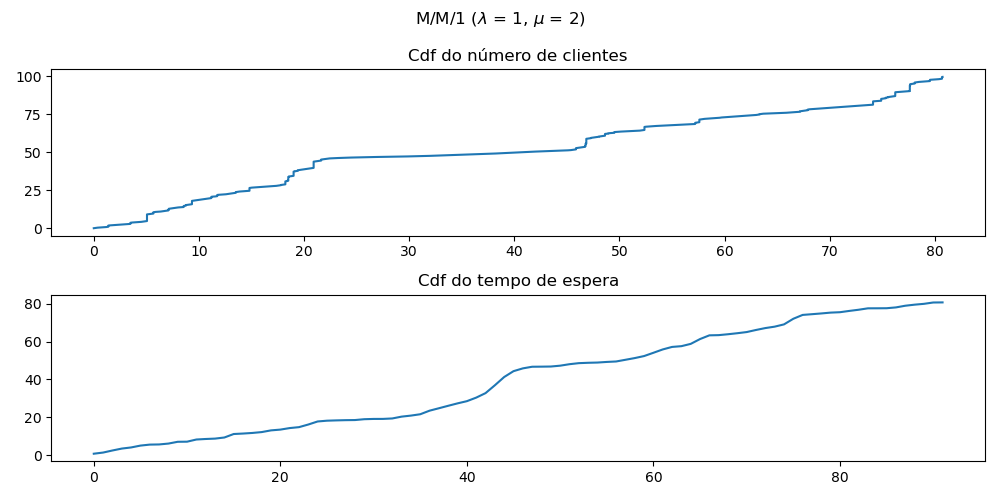
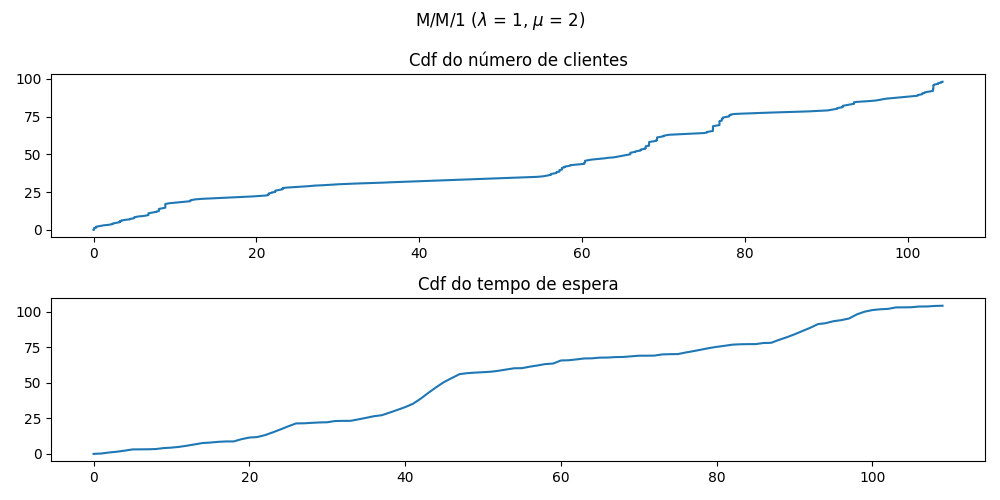
Slight changes to finite queue function

diff --git a/trabalho1/filas.py b/trabalho1/filas.py
@@ -61,7 +61,7 @@ class Servidor:
         atual_cliente = Cliente(chegada=0, atendido=0,
                                 saida=self.tempo_de_processamento())
         clientes_na_fila = 0
-        while atual_cliente.saida < self.tempo_maximo:
+        while True:
             self.processados.append(atual_cliente)
             if not (atual_cliente := self.proximo_cliente_ou_vazio(atual_cliente)):
                 return True
@@ -199,7 +199,9 @@ if __name__ == "__main__":
     gera_cdfs(lamda=2, mu=4)
     estima_terminacoes(lamda=2,    mu=4)
     estima_terminacoes(lamda=1,    mu=2)
-    estima_terminacoes(lamda=1.05, mu=1)
-    estima_terminacoes(lamda=1.10, mu=1)
-    estima_terminacoes_com_max_clientes(lamda=1.05, mu=1, max_clientes=5)
-    estima_terminacoes_com_max_clientes(lamda=0.5, mu=1, max_clientes=5)
+    estima_terminacoes(lamda=1.05, mu=1, tempo_maximo=10000)
+    estima_terminacoes(lamda=1.10, mu=1, tempo_maximo=10000)
+    estima_terminacoes_com_max_clientes(lamda=1.05, mu=1, max_clientes=1000)
+    estima_terminacoes_com_max_clientes(lamda=1.1, mu=1, max_clientes=1000)
+    estima_terminacoes_com_max_clientes(lamda=1, mu=2, max_clientes=1000)
+    estima_terminacoes_com_max_clientes(lamda=2, mu=4, max_clientes=1000)
